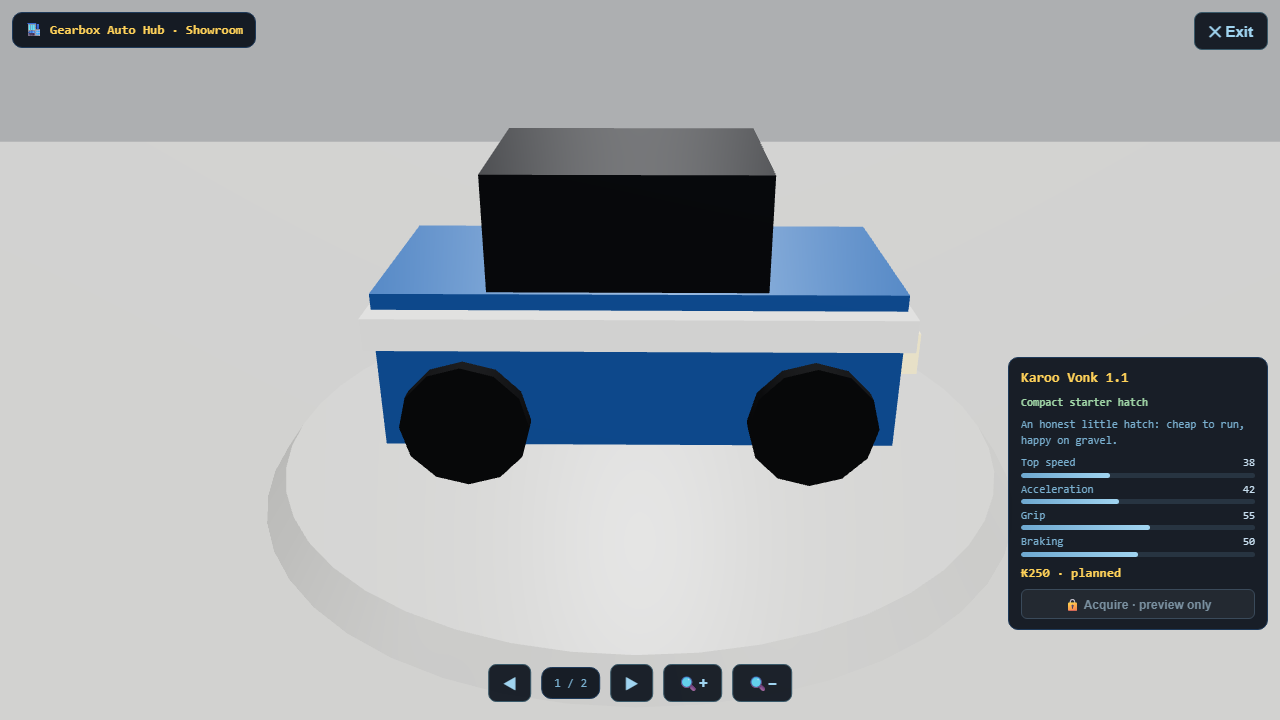
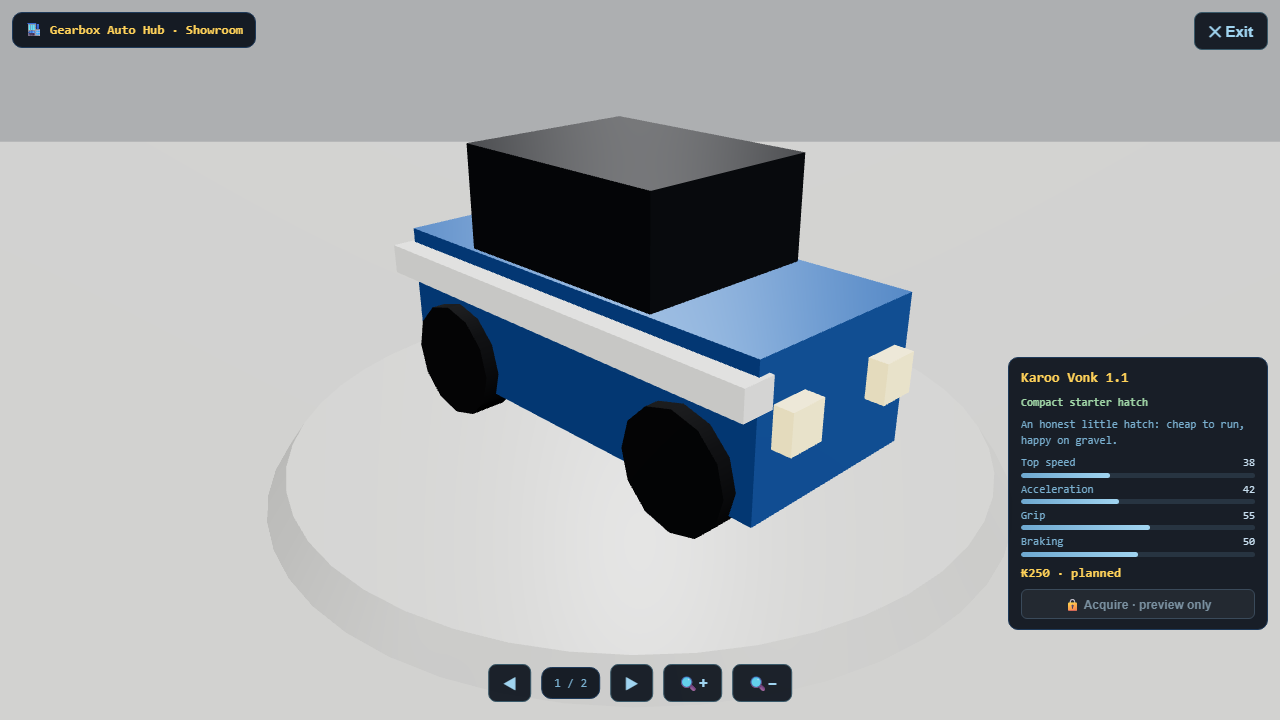
test(e2e): prove garage showroom mobile/touch entry on bounded harness (PLAYER.GARAGE.1.FIX1)
Correction slice for PR #369, rebased onto CityLife 0.26.5 (PR #360 garage GLB
plot-fit already in main; PR #382 bounded mobile harness now available).

- e2e/showroom-mobile.spec.ts: representative touch/mobile UAT (Pixel 5, coarse
  pointer, real touchscreen taps). Proves the commercial garage exterior portal
  is reachable, entry works by touch, the interior renders non-blank, left/right
  selection and bounded zoom work by touch, exit returns to the exterior frame,
  and Acquire stays disabled (no economy/ownership). Asserts the PR #360 plot-fit
  contract survives the rebase (shell renderScale == CELL_SIZE == 4).
- e2e/showroom-mobile.harness.config.ts: scoped, self-cleaning Playwright config
  that runs the spec through the merged scripts/run-bounded-e2e.mjs OS-level
  process-tree-kill wrapper, bound inside this worker's port range (5630-5639,
  CITYLIFE_E2E_PORT default 5630) so it never collides with another worker.
- docs/evidence: desktop and mobile exterior/interior screenshots regenerated
  live on the rebased base (committed, non-blank, distinct per vehicle).

No source/product change. new-player-journey-v1 stays OFF; no KCO movement, no
cohort/allowlist, GLB and accepted plot-fit scale unchanged.

Changed region(s): [[0.2812, 0.1528, 0.7188, 0.7639], [0.4688, 0.2444, 0.5625, 0.275]]

diff --git a/e2e/showroom-mobile.spec.ts b/e2e/showroom-mobile.spec.ts
@@ -1,0 +1,240 @@
+import { test, expect, devices } from "@playwright/test";
+import * as fs from "node:fs";
+import * as path from "node:path";
+
+// PLAYER.GARAGE.1.FIX1 — prove the Gearbox Auto Hub is reachable and fully usable on a representative
+// touch/mobile viewport (Pixel 5, coarse pointer, real tap gestures — never a synthetic mouse click).
+// A mobile player reaches the hub from the ground/walker frame, so entry, selection, bounded zoom and
+// exit are all driven from there by touch; the fitted daylit exterior (PR #360 plot-fit lineage) is
+// captured from the aerial survey first. Acquisition stays honestly locked. Screenshots are committed
+// evidence (docs/evidence/).
+
+const EVIDENCE_DIR = path.join("docs", "evidence");
+
+// Explicit, bounded timeouts so no Playwright operation can ever wait indefinitely. Every action,
+// navigation, assertion and readiness probe below is capped; combined with test.setTimeout the whole
+// spec is guaranteed to terminate (pass or fail) instead of hanging a governed worker process.
+const NAV_TIMEOUT = 30_000; // page.goto
+const ACTION_TIMEOUT = 15_000; // taps, boundingBox, textContent, etc.
+const ASSERT_TIMEOUT = 15_000; // expect(...).toBeVisible / toHaveText / ...
+const READY_TIMEOUT = 60_000; // one-off scene-readiness probes
+
+function assertNonBlank(file: string): void {
+  const stat = fs.statSync(file);
+  // A blank/near-uniform mobile PNG compresses to a few KB; a real lit scene does not.
+  expect(stat.size, `${file} should be a non-blank screenshot`).toBeGreaterThan(
+    18_000,
+  );
+}
+
+// A representative modern phone: 393-wide CSS px, devicePixelRatio 2.75, coarse pointer, touch enabled.
+// actionTimeout / navigationTimeout cap every implicit-wait operation (goto, textContent, boundingBox,
+// waitForSelector) so none can block on the full test timeout.
+test.use({
+  ...devices["Pixel 5"],
+  hasTouch: true,
+  isMobile: true,
+  actionTimeout: ACTION_TIMEOUT,
+  navigationTimeout: NAV_TIMEOUT,
+});
+
+// A real single-finger tap at the control's on-screen centre. The showroom runs a continuous WebGL
+// turntable, which starves Playwright's rAF-based `.tap()` actionability sampling on this device even
+// though the button is provably static and unobstructed — so we dispatch a genuine touch at the hit-
+// tested centre instead. We still assert the control is the top-most element at that point (an honest
+// reachability check) before touching it, so this never masks a real overlap/occlusion regression.
+async function touchTap(
+  page: import("@playwright/test").Page,
+  selector: string,
+): Promise<void> {
+  const locator = page.locator(selector);
+  await expect(locator).toBeVisible({ timeout: ASSERT_TIMEOUT });
+  // Resolve the on-screen centre AND hit-test it in a single in-page evaluate. The showroom's
+  // continuous WebGL turntable saturates the (software) renderer, so Playwright's own
+  // scrollIntoViewIfNeeded/boundingBox stability sampling never settles and each would burn its full
+  // timeout. A synchronous getBoundingClientRect + elementFromPoint is one round-trip and is immune to
+  // that — while still proving the control is the top-most element at its centre (an honest, occlusion-
+  // aware reachability check). These HUD controls are always within the viewport, so no scrolling is
+  // needed.
+  const hit = await page.evaluate((sel) => {
+    const target = document.querySelector(sel);
+    if (!target) return { hasBox: false, onTarget: false, cx: 0, cy: 0 };
+    // Bring the control into the viewport synchronously (no Playwright stability sampling to starve).
+    target.scrollIntoView({ block: "center", inline: "center" });
+    const r = target.getBoundingClientRect();
+    if (r.width === 0 || r.height === 0)
+      return { hasBox: false, onTarget: false, cx: 0, cy: 0 };
+    const cx = r.left + r.width / 2;
+    const cy = r.top + r.height / 2;
+    const top = document.elementFromPoint(cx, cy);
+    const onTarget = !!top && (top === target || target.contains(top));
+    return { hasBox: true, onTarget, cx, cy };
+  }, selector);
+  expect(hit.hasBox, `${selector} should have a layout box`).toBe(true);
+  expect(
+    hit.onTarget,
+    `${selector} must be the top-most element at its centre (reachable by touch)`,
+  ).toBe(true);
+  await page.touchscreen.tap(hit.cx, hit.cy);
+}
+
+test("garage showroom on mobile touch: reachable portal, non-blank interior, touch selection, locked acquire, exit", async ({
+  page,
+}) => {
+  // This drives the full mobile journey (aerial survey + exterior capture, return to ground, touch
+  // entry, two lit interior captures, touch selection/zoom/wrap and exit) against a continuously
+  // animating WebGL turntable. On a software (non-GPU) renderer that whole flow is slow — the desktop
+  // twin needs ~3.7m — and the mobile flow does strictly more (an extra exterior survey + a second
+  // interior capture), so it is given headroom above the desktop spec. The hard bound is the OS-level
+  // process-tree kill in scripts/run-bounded-e2e.mjs; this per-test cap only guards a single slow run.
+  test.setTimeout(360_000);
+  const t0 = Date.now();
+  const mark = (label: string) =>
+    console.log(`[mark] +${((Date.now() - t0) / 1000).toFixed(1)}s ${label}`);
+
+  await page.goto("/?skipauth=1", { timeout: NAV_TIMEOUT });
+  await page.waitForSelector("canvas", { timeout: NAV_TIMEOUT });
+  await page.waitForFunction(
+    () => !!(window as any).__r3fScene && !!(window as any).__colony,
+    undefined,
+    { timeout: NAV_TIMEOUT },
+  );
+  // the world is dressed once foliage exists (same readiness probe as the desktop showroom spec)
+  await page.waitForFunction(
+    () => {
+      let f = false;
+      (window as any).__r3fScene?.traverse((o: any) => {
+        if (o.name === "foliage") f = true;
+      });
+      return f;
+    },
+    undefined,
+    { timeout: READY_TIMEOUT },
+  );
+
+  // Sanity: this really is a coarse-pointer / touch context (no synthetic desktop mouse).
+  const isTouch = await page.evaluate(
+    () =>
+      navigator.maxTouchPoints > 0 ||
+      window.matchMedia("(pointer: coarse)").matches,
+  );
+  expect(isTouch).toBe(true);
+
+  // 1) Prove the commercial garage EXTERIOR: fly the aerial survey camera onto the rendered garage
+  //    shell so the fitted daylit landmark fills the frame, then return to the ground frame.
+  await touchTap(page, 'button[title="Enter Aerial World View"]');
+  await page.waitForTimeout(1000);
+  const focused = await page.evaluate(() => {
+    const rt = (window as any).__colony;
+    rt.debugSetClock(12, 0);
+    const scene = (window as any).__r3fScene;
+    let shell: any = null;
+    scene?.traverse((o: any) => {
+      if (o.name === "commercialDistrict.garagePad.garageAnchorShell") shell = o;
+    });
+    if (!shell) return { ok: false, reason: "no garageAnchorShell in scene" };
+    shell.updateWorldMatrix(true, false);
+    const wx = shell.matrixWorld.elements[12];
+    const wz = shell.matrixWorld.elements[14];
+    const N = rt.sim.state.terrain.size;
+    const cx = Math.round(wx / 4 + N / 2);
+    const cy = Math.round(wz / 4 + N / 2);
+    return { ok: rt.focusSurveyCell(cx, cy), shellScale: shell.scale.x };
+  });
+  console.log(`mobile showroom exterior focus: ${JSON.stringify(focused)}`);
+  expect(focused.ok).toBe(true);
+  // The plot-fit scale contract from PR #360 must survive the rebase: the shell fills its pad.
+  expect(focused.shellScale).toBe(4);
+  await page.waitForTimeout(2800); // let the fly-to settle and the frame render
+
+  fs.mkdirSync(EVIDENCE_DIR, { recursive: true });
+  const exteriorPng = path.join(
+    EVIDENCE_DIR,
+    "player-garage1-mobile-exterior.png",
+  );
+  await page.screenshot({ path: exteriorPng });
+  assertNonBlank(exteriorPng);
+
+  // Return to the ground/walker frame — the representative frame a mobile player enters the hub from.
+  await touchTap(page, 'button[title="Exit World View"]');
+  await page.waitForTimeout(800);
+
+  // 2) The exterior portal affordance must be reachable and enter the showroom by TOUCH.
+  await expect(
+    page.locator('[data-build-action="open-showroom"]'),
+  ).toBeVisible({ timeout: ASSERT_TIMEOUT });
+  await touchTap(page, '[data-build-action="open-showroom"]');
+  await page.waitForSelector('[data-testid="showroom-overlay"]', {
+    timeout: ACTION_TIMEOUT,
+  });
+  await page.waitForTimeout(2000); // let the studio scene light and the turntable start
+
+  // 3) The interior renders a real lit scene (non-blank), not an empty canvas.
+  const vonkName = await page.textContent('[data-testid="showroom-card-name"]', {
+    timeout: ACTION_TIMEOUT,
+  });
+  expect(vonkName).toBe("Karoo Vonk 1.1");
+  const vonkTopSpeed = await page.textContent(
+    '[data-testid="showroom-stat-top-speed"]',
+    { timeout: ACTION_TIMEOUT },
+  );
+  const vonkPng = path.join(
+    EVIDENCE_DIR,
+    "player-garage1-mobile-showroom-vonk.png",
+  );
+  await page.screenshot({ path: vonkPng });
+  assertNonBlank(vonkPng);
+
+  // Acquisition stays honestly gated (disabled) — no economy/ownership yet.
+  await expect(
+    page.locator('[data-build-action="showroom-acquire-preview"]'),
+  ).toBeDisabled({ timeout: ASSERT_TIMEOUT });
+
+  // 4) Left/right selection by touch — the card and its stats must visibly change.
+  await touchTap(page, '[data-build-action="showroom-next"]');
+  await expect(page.locator('[data-testid="showroom-card-name"]')).toHaveText(
+    "Karoo Kaap GT-V8",
+    { timeout: ASSERT_TIMEOUT },
+  );
+  const kaapTopSpeed = await page.textContent(
+    '[data-testid="showroom-stat-top-speed"]',
+    { timeout: ACTION_TIMEOUT },
+  );
+  expect(kaapTopSpeed).not.toBe(vonkTopSpeed);
+
+  // Bounded zoom by touch — tapping the zoom controls must not throw or blank the scene.
+  await touchTap(page, '[data-build-action="showroom-zoom-in"]');
+  await touchTap(page, '[data-build-action="showroom-zoom-in"]');
+  await touchTap(page, '[data-build-action="showroom-zoom-out"]');
+  await page.waitForTimeout(1200);
+  const kaapPng = path.join(
+    EVIDENCE_DIR,
+    "player-garage1-mobile-showroom-kaap.png",
+  );
+  await page.screenshot({ path: kaapPng });
+  assertNonBlank(kaapPng);
+
+  // The two interior screenshots must differ (different car, different card).
+  expect(fs.readFileSync(vonkPng).equals(fs.readFileSync(kaapPng))).toBe(false);
+
+  // Selection wraps by touch: next from the last vehicle returns to the first.
+  await touchTap(page, '[data-build-action="showroom-next"]');
+  await expect(page.locator('[data-testid="showroom-card-name"]')).toHaveText(
+    "Karoo Vonk 1.1",
+    { timeout: ASSERT_TIMEOUT },
+  );
+
+  // 5) Exit by touch returns cleanly to the exterior frame (overlay gone, world canvas still mounted,
+  //    and the portal affordance reachable again).
+  await touchTap(page, '[data-build-action="showroom-exit"]');
+  await expect(page.locator('[data-testid="showroom-overlay"]')).toHaveCount(
+    0,
+    { timeout: ASSERT_TIMEOUT },
+  );
+  await expect(page.locator("canvas").first()).toBeVisible({
+    timeout: ASSERT_TIMEOUT,
+  });
+  await expect(
+    page.locator('[data-build-action="open-showroom"]'),
+  ).toBeVisible({ timeout: ASSERT_TIMEOUT });
+});

diff --git a/e2e/showroom-mobile.harness.config.ts b/e2e/showroom-mobile.harness.config.ts
@@ -1,0 +1,41 @@
+import { defineConfig } from "@playwright/test";
+
+// PLAYER.GARAGE.1.FIX1 — bounded, timeout-safe, self-cleaning harness for the garage showroom
+// mobile/touch UAT. It reuses the PLAYER.MOBILE.E2E.1 pattern (playwright.mobile-harness.config.ts
+// + scripts/run-bounded-e2e.mjs OS-level process-tree kill) but is scoped to the single
+// showroom-mobile spec and binds its dev server inside this governed worker's allocated port range
+// (5630-5639) instead of the shared harness port, so it can never collide with another worker.
+//
+//   CITYLIFE_E2E_PORT=5630 node scripts/run-bounded-e2e.mjs --config e2e/showroom-mobile.harness.config.ts
+//
+// The port is env-overridable (default 5630) and stays within 5630-5639. Every bound below mirrors
+// the merged mobile harness so a runaway WebGL page can never hang this governed worker.
+const PORT = Number(process.env.CITYLIFE_E2E_PORT) || 5630;
+const BASE_URL = `http://127.0.0.1:${PORT}`;
+
+export default defineConfig({
+  testDir: "./",
+  testMatch: /showroom-mobile\.spec\.ts$/,
+  // The spec sets its own per-test cap (test.setTimeout) sized for a slow software-WebGL renderer;
+  // this default is aligned so the whole mobile journey is never truncated below that. The real
+  // last-resort bound is the OS-level process-tree kill in scripts/run-bounded-e2e.mjs.
+  timeout: 360_000,
+  expect: { timeout: 10_000 },
+  fullyParallel: false,
+  forbidOnly: Boolean(process.env.CI),
+  retries: 0,
+  workers: 1,
+  reporter: process.env.CI ? "github" : "list",
+  use: {
+    baseURL: BASE_URL,
+    trace: "retain-on-failure",
+    screenshot: "only-on-failure",
+  },
+  projects: [{ name: "mobile-chromium" }],
+  webServer: {
+    command: `npm run dev -- --host 127.0.0.1 --port ${PORT}`,
+    url: `${BASE_URL}/?skipauth=1`,
+    reuseExistingServer: false,
+    timeout: 60_000,
+  },
+});